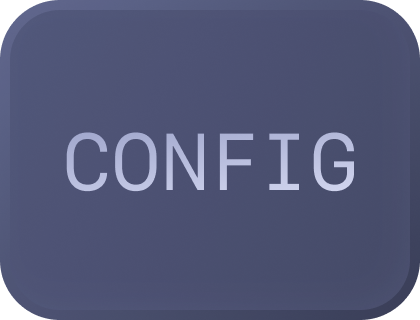
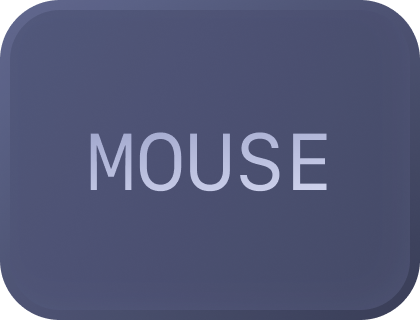
create mouse

Changed region(s): [[0.1548, 0.4062, 0.8667, 0.5938]]

diff --git a/src/public/index.html b/src/public/index.html
@@ -27,6 +27,7 @@
     <script src="https://stackpath.bootstrapcdn.com/bootstrap/4.4.1/js/bootstrap.min.js" defer></script>
 
     <script src="./assets/js/commands.js" defer></script>
+    <script src="./assets/js/mouse.js" defer></script>
     <script src="./assets/js/power.js" defer></script>
     <!-- END SCRIPTS -->
 
@@ -71,6 +72,24 @@
                 <!-- END LIST -->
             </section>
             <!-- END APP-LIST -->
+
+            <!-- MOUSE -->
+            <section id="mouse" style="display: none;">
+                <!-- BUTTON BACK -->
+                <div class="returnButton">
+                    <a onclick="returnButton()">
+                        <img src="./assets/img/return_button.png" alt="" width="52" height="42">
+                    </a>
+                </div>
+                <!-- END BUTTON BACK -->
+            
+                <!-- LIST -->
+                <!-- channelID('globoplaywebos') -->
+                <div id="board"></div>
+            
+                <!-- END LIST -->
+            </section>
+            <!-- END MOUSE -->
 
             <!-- BUTTONS -->
             <section id="buttons">
@@ -160,7 +179,7 @@
                         </a>
                     </div>
                     <div class="col click-button">
-                        <a onclick="button('DASH')">
+                        <a onclick="channelID('com.webos.app.tvguide')">
                             <img src="./assets/img/guide_button.png" alt="" width="52" height="42">
                         </a>
                     </div>
@@ -169,7 +188,7 @@
                 <!-- 6 -->
                 <div class="row">
                     <div class="col click-button">
-                        <a onclick="button('ASTERISK')">
+                        <a onclick="mouseInit()">
                             <img src="./assets/img/config_button.png" alt="" width="52" height="42">
                         </a>
                     </div>

diff --git a/src/public/assets/js/mouse.js b/src/public/assets/js/mouse.js
@@ -1,0 +1,69 @@
+const send = async (command, payload) => {
+  const body = JSON.stringify({
+    command,
+    payload,
+  });
+
+  try {
+    const res = await fetch("http://localhost:6767/mouse", {
+      method: "POST",
+      headers: {
+        Accept: "application/json",
+        "Content-Type": "application/json",
+      },
+      body,
+    });
+    const resJson = await res.json();
+    return resJson;
+  } catch (error) {
+    console.error(error);
+  }
+};
+
+const click = async () => {
+  const answer = await send("click");
+  console.log(answer);
+};
+
+const mouseInit = () => {
+  $("#buttons").hide();
+  $("#mouse").show();
+};
+
+const reads = () => {
+  var isDragging = false;
+  var mouseDown = false;
+
+  $("#board")
+    .mousedown((e) => {
+      isDragging = false;
+      mouseDown = true;
+    })
+    .mousemove(function (e) {
+      isDragging = true;
+      if (isDragging && mouseDown) {
+        var x_position = e.pageX;
+        var y_position = e.pageY;
+
+        const center_y = $(this).position().top + $(this).height() / 2;
+        const center_x = $(this).position().left + $(this).width() / 2;
+
+        var payload = {
+          dx: (x_position - center_x) / 8,
+          dy: (y_position - center_y) / 8,
+          drag: 0,
+        };
+        send("move", payload);
+      }
+    })
+    .mouseup(() => {
+      var wasDragging = isDragging;
+      isDragging = false;
+      mouseDown = false;
+      if (!wasDragging) {
+        click()
+      }
+    });
+};
+
+reads();

diff --git a/src/controllers/commands/commands.ctrl.js b/src/controllers/commands/commands.ctrl.js
@@ -9,11 +9,11 @@ module.exports = {
           message: 'command is required'
         })
       }
-      if (!global.globalLGTV.isConnected()) {
+      if (!global || !global.globalLGTV.isConnected()) {
         return res.json({
           success: false,
-          message: 'tv not stay cconnected'
-        })
+          message: "tv not stay cconnected",
+        });
       }
       global.globalLGTV.getSocket(
         'ssap://com.webos.service.networkinput/getPointerInputSocket',
@@ -48,11 +48,11 @@ module.exports = {
           message: 'command is required'
         })
       }
-      if (!global.globalLGTV.isConnected()) {
+      if (!global || !global.globalLGTV.isConnected()) {
         return res.json({
           success: false,
-          message: 'tv not stay connected'
-        })
+          message: "tv not stay connected",
+        });
       }
       global.globalLGTV.request(command, value, function (err, response) {
         if (err) {
@@ -85,11 +85,11 @@ module.exports = {
           message: 'command is required'
         })
       }
-      if (!global.globalLGTV.isConnected()) {
+      if (!global || !global.globalLGTV.isConnected()) {
         return res.json({
           success: false,
-          message: 'tv not stay cconnected'
-        })
+          message: "tv not stay connected",
+        });
       }
       global.globalLGTV.request(command, value, function (err, response) {
         if (err) {

diff --git a/src/controllers/commands/mouse.ctrl.js b/src/controllers/commands/mouse.ctrl.js
@@ -1,0 +1,50 @@
+// // commands related to input such as remote control and text input
+module.exports = {
+  mouse: (req, res, next) => {
+    try {
+      if (global.isSend) {
+        return res.json({
+          success: false,
+          message: "command is required",
+        });
+      }
+      global.isSend = true;
+
+      const command = req.body.command;
+      const payload = req.body.payload || {};
+      if (!command) {
+        return res.json({
+          success: false,
+          message: "command is required",
+        });
+      }
+      if (!global || !global.globalLGTV.isConnected()) {
+        return res.json({
+          success: false,
+          message: "tv not stay connected",
+        });
+      }
+      global.globalLGTV.getSocket(
+        "ssap://com.webos.service.networkinput/getPointerInputSocket",
+        function (error, sock) {
+          if (error) {
+            return res.json({
+              success: false,
+              message: error,
+            });
+          }
+          sock.send(command, payload);
+          global.isSend = false;
+          return res.json({
+            success: true,
+          });
+        }
+      );
+    } catch (error) {
+      return res.json({
+        success: false,
+        message: error.message,
+      });
+    }
+  },
+};

diff --git a/src/public/assets/css/style.css b/src/public/assets/css/style.css
@@ -159,7 +159,7 @@ a:hover {
 #load-full {
   height: 100%;
 }
-#load-full .returnButton {
+.returnButton {
   display: flex;
 }
 #load-full .container {
@@ -180,10 +180,6 @@ a:hover {
 /* Hide scrollbar for Chrome, Safari and Opera */
 #app-list::-webkit-scrollbar {
     display: none;
-}
-
-#app-list .returnButton {
-  display: flex;
 }
 
 #app-list .row {
@@ -220,3 +216,34 @@ section {
   margin: 0 -5px;
 }
 /* END SECTIONS */
+
+
+/* Wifi IMG */
+#wifi {
+  height: 48px;
+  width: 52px;
+  object-fit: contain;
+}
+/* End Wifi IMG */
+
+
+/* MOUSE */
+
+#mouse #board {
+  height: 200px;
+  background: linear-gradient(116.82deg, #494f74 0%, #3a3f5e 100%);
+  opacity: 0.95;
+  box-shadow: inset -1px -1px 4px rgba(83, 92, 136, 0.12);
+  border-radius: 6px;
+  margin: 12px 0 0 0;
+
+  display: flex;
+	flex-direction: row;
+	flex-wrap: nowrap;
+	justify-content: space-between;
+	align-items: stretch;
+  align-content: stretch;
+  
+  padding: 0 8px;
+}
+/* END MOUSE */

diff --git a/src/public/assets/js/commands.js b/src/public/assets/js/commands.js
@@ -16,7 +16,6 @@ const channel = async (command, value) => {
       body,
     });
     const resJson = await res.json();
-    console.log(resJson);
     return resJson;
   } catch (error) {
     console.error(error);
@@ -28,12 +27,12 @@ const button = (command) => {
     .then(function (response) {
       return response.json();
     })
-    .then(function (json) {
-      console.log(json);
-    })
-    .catch(function (error) {
-      console.log(error);
-    });
+    // .then(function (json) {
+    //   console.log(json);
+    // })
+    // .catch(function (error) {
+    //   console.log(error);
+    // });
 };
 
 const muteButton = () => {
@@ -126,6 +125,7 @@ const inputs = async () => {
 const returnButton = () => {
   $("#load-full").hide();
   $("#app-list").hide();
+  $("#mouse").hide();
   $("#buttons").show();
 };
 

diff --git a/src/route/commands/commands.route.js b/src/route/commands/commands.route.js
@@ -1,9 +1,10 @@
 const express = require("express");
-const { commandsCtrl } = require("../../controllers");
+const { commandsCtrl, mouseCtrl } = require("../../controllers");
 const router = new express.Router();
 
 router.get("/button/:command", commandsCtrl.button);
 router.post("/channel", commandsCtrl.channel);
+router.post("/mouse", mouseCtrl.mouse);
 router.get("/test", commandsCtrl.channel);
 
 module.exports = router;

diff --git a/src/controllers/index.js b/src/controllers/index.js
@@ -1,7 +1,9 @@
 const powerCtrl = require('./power/power.ctrl')
 const commandsCtrl = require('./commands/commands.ctrl')
+const mouseCtrl = require("./commands/mouse.ctrl");
 
 module.exports = {
   powerCtrl,
-  commandsCtrl
+  commandsCtrl,
+  mouseCtrl
 }

diff --git a/src/utils/Global.js b/src/utils/Global.js
@@ -1,1 +1,2 @@
 global.globalLGTV = {};
+global.isSend = false;
